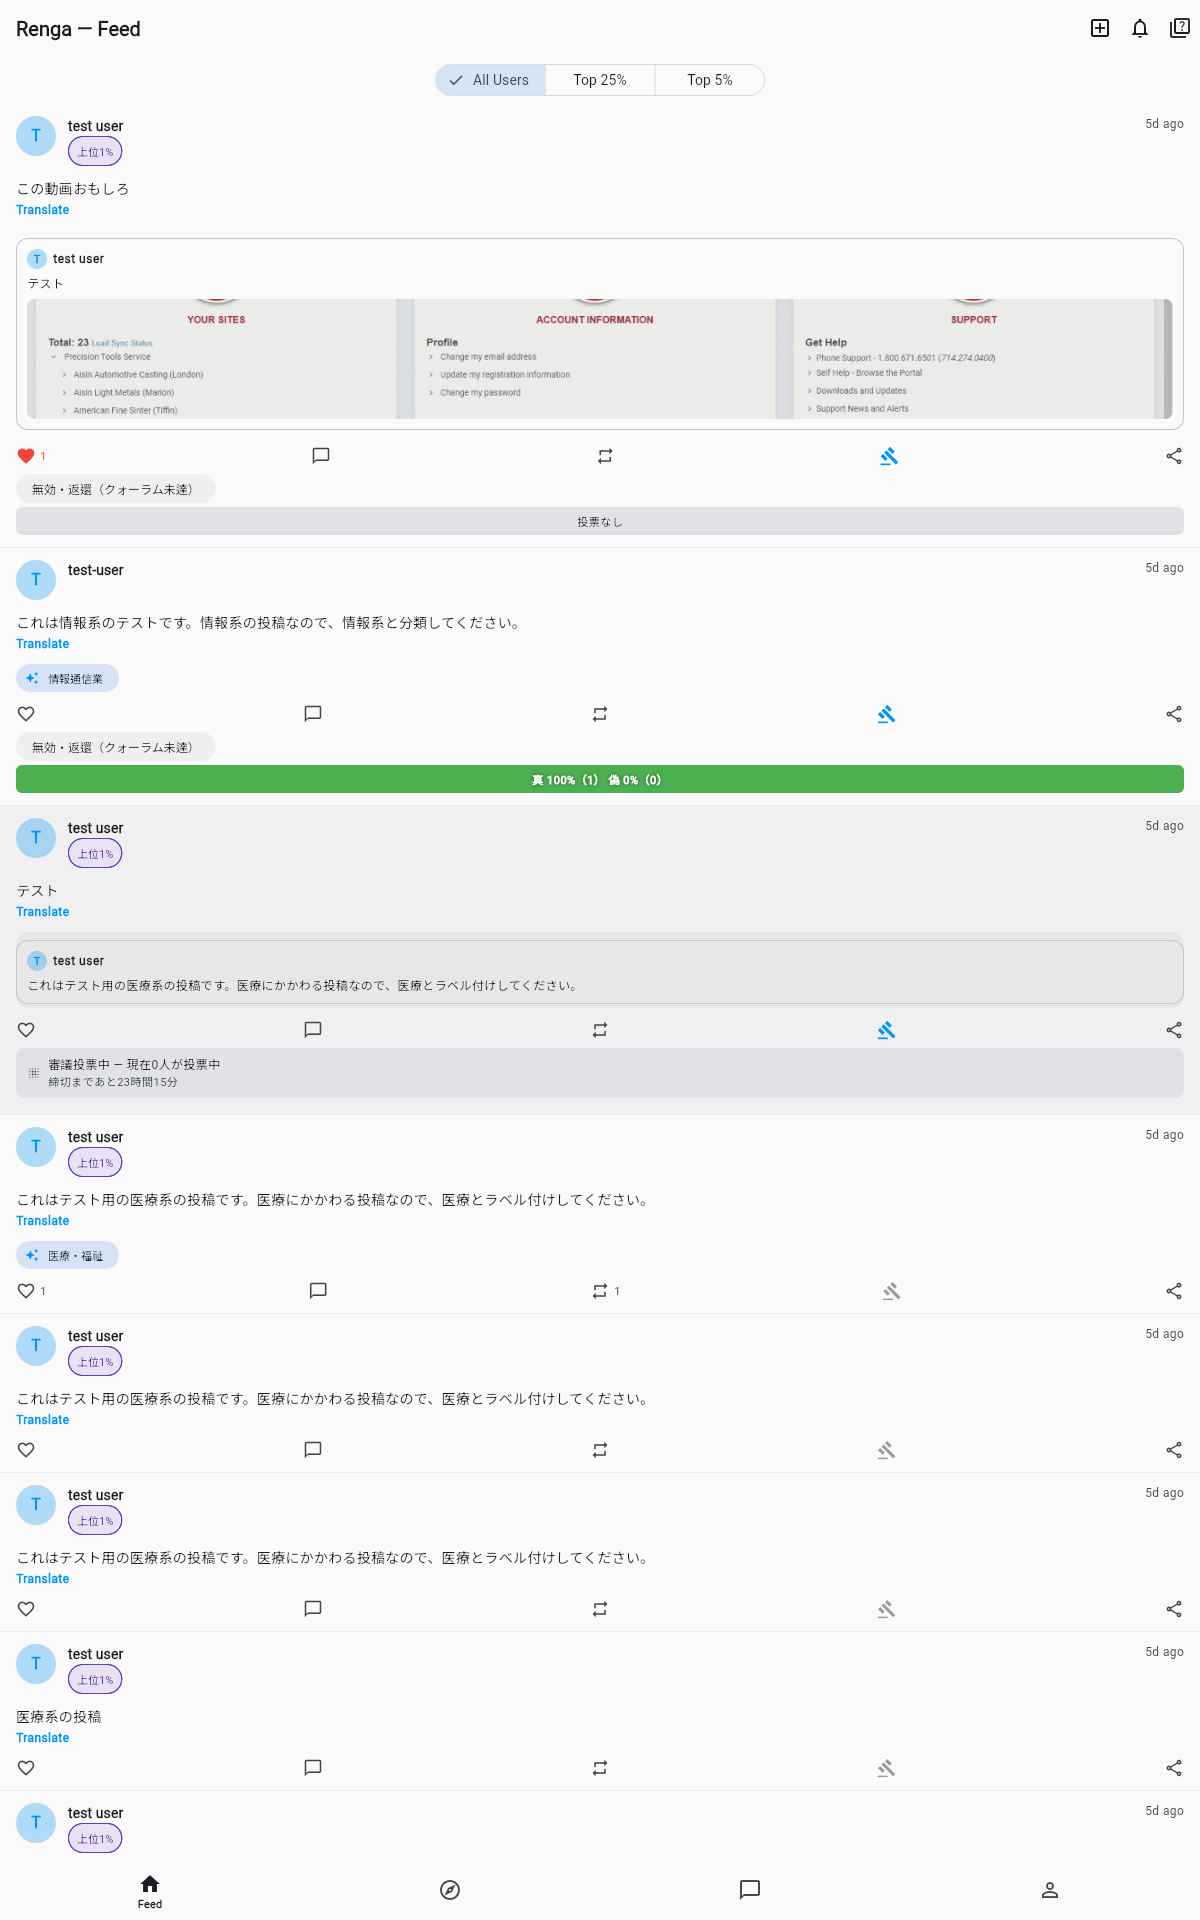
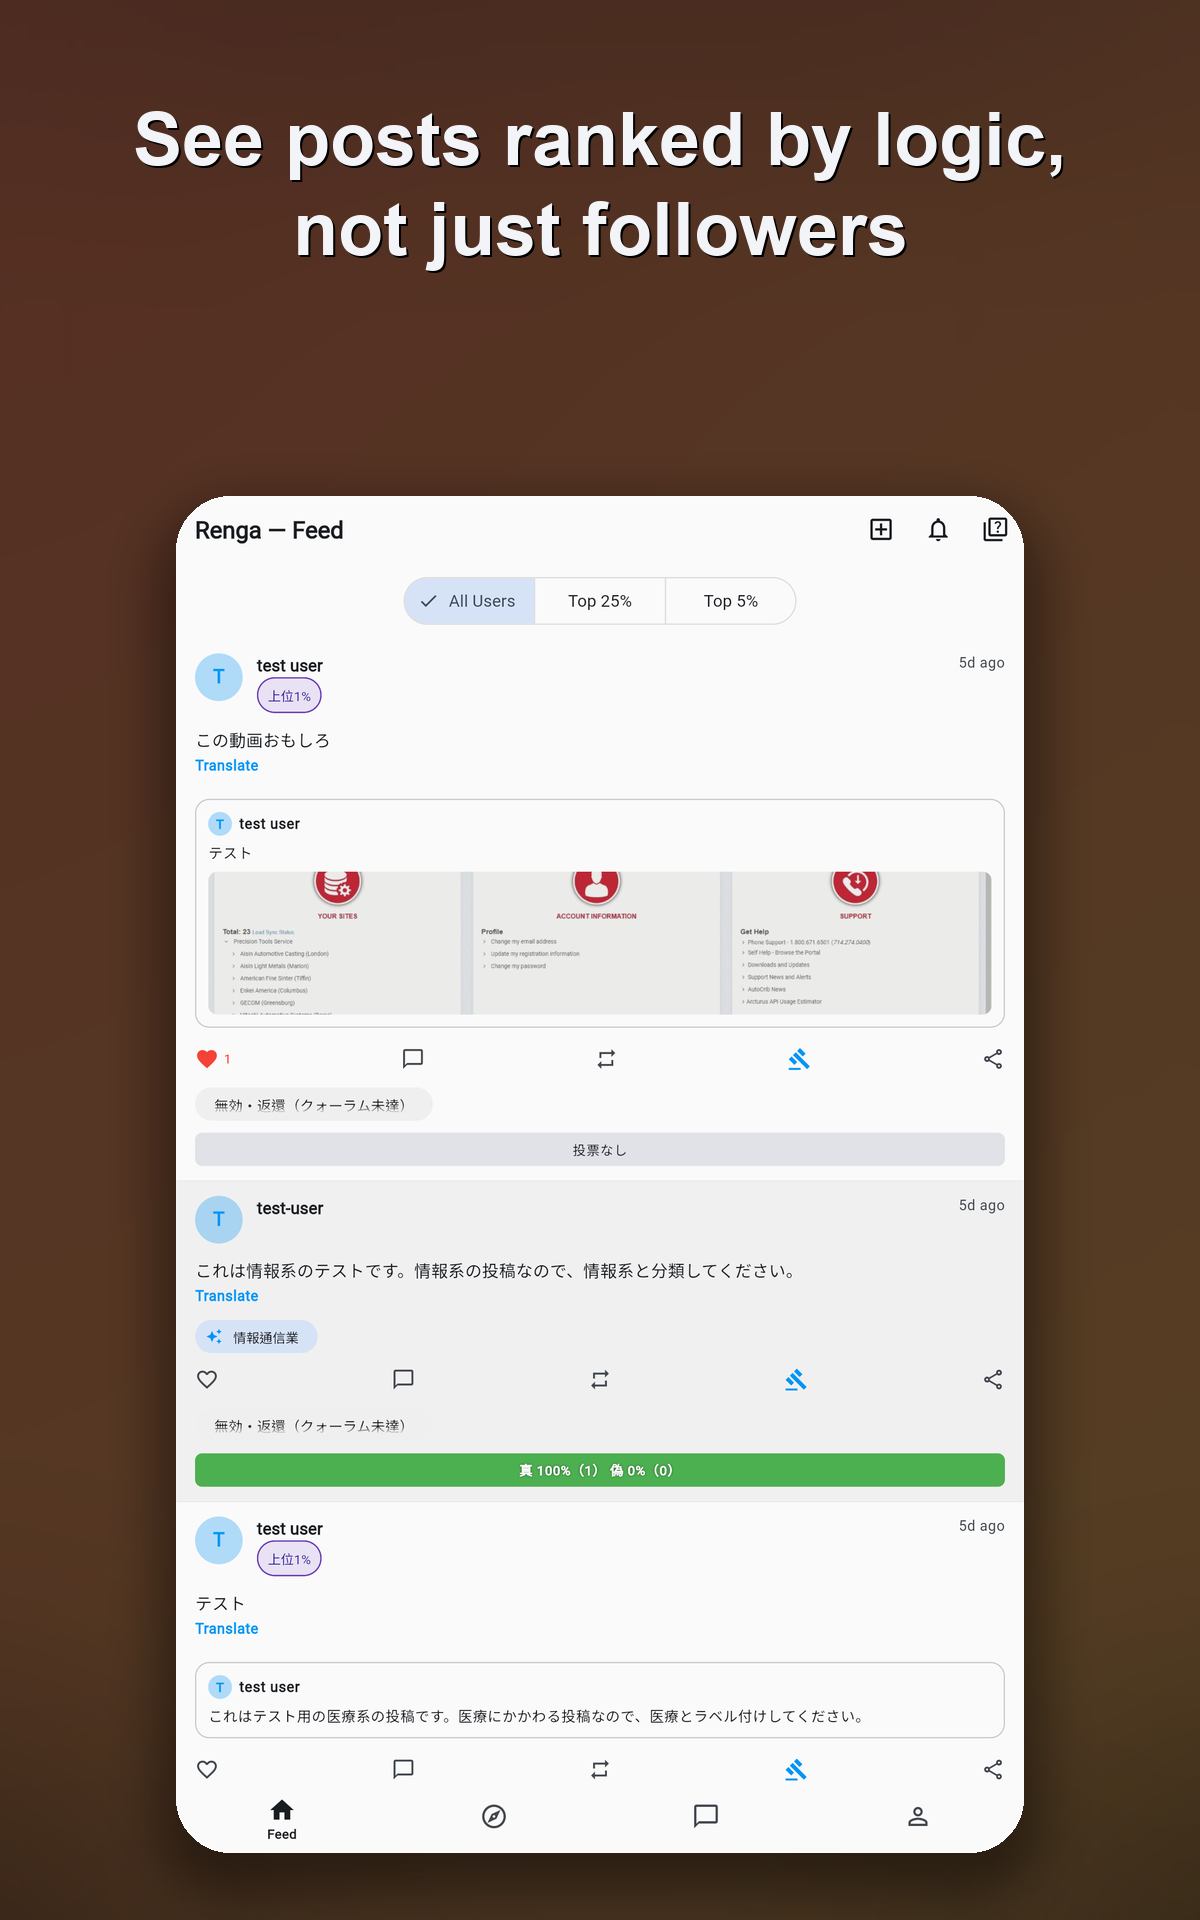
feat: Play Storeスクリーンショットにデバイスエミュレーション撮影・キャプション・背景を追加
Chrome DevToolsのデバイスツールバー相当のPlaywrightデバイスエミュレーション
（Pixel 7 / Galaxy Tab S4 / Galaxy Tab S9）で実機に近い解像度・UAで再撮影し、
各カットにブランドグラデーション背景・マーケティングキャプション・角丸デバイス
フレームを合成する2段階パイプライン（capture_screenshots.js →
compose_screenshots.py）を追加。ストアでよく見る「機能説明付きスクリーンショット」
の体裁に揃えた。

diff --git a/assets/store/listing/capture_screenshots.js b/assets/store/listing/capture_screenshots.js
@@ -1,0 +1,81 @@
+// Captures real in-app screenshots for the Play Store listing using Playwright's
+// device emulation (the programmatic equivalent of Chrome DevTools' "device toolbar"),
+// against a `flutter build web --release` build served locally.
+//
+// One-off tooling, not part of the app's runtime dependencies. Requires:
+//   npm install --no-save playwright
+//   npx playwright install chromium
+//
+// Usage:
+//   flutter build web --release -t lib/main.dart
+//   (cd build/web && python -m http.server 8766) &
+//   TEST_EMAIL=you@example.com TEST_PASSWORD=... node assets/store/listing/capture_screenshots.js
+//
+// Output raw device captures under assets/store/listing/raw/<size>/*.png. Run
+// compose_screenshots.py afterwards to turn them into the final listing images
+// (background + caption + rounded device frame) under assets/store/screenshots_en/.
+const { chromium, devices } = require('playwright');
+const fs = require('fs');
+const path = require('path');
+
+const BASE_URL = process.env.CAPTURE_BASE_URL || 'http://localhost:8766';
+const EMAIL = process.env.TEST_EMAIL;
+const PASSWORD = process.env.TEST_PASSWORD;
+const OUT_ROOT = path.join(__dirname, 'raw');
+
+if (!EMAIL || !PASSWORD) {
+  console.error('Set TEST_EMAIL and TEST_PASSWORD env vars to a logged-in-capable test account.');
+  process.exit(1);
+}
+
+// Login field coordinates (CSS px) were located by hand per device profile, since the
+// Flutter web canvas exposes no DOM to query. Re-probe with a throwaway screenshot if the
+// login screen layout changes.
+const PROFILES = {
+  phone: { descriptor: devices['Pixel 7'], cx: 206, yEmail: 300, yPass: 358, yBtn: 436 },
+  tablet_7in: { descriptor: devices['Galaxy Tab S4'], cx: 356, yEmail: 430, yPass: 514, yBtn: 606 },
+  tablet_10in: { descriptor: devices['Galaxy Tab S9'], cx: 320, yEmail: 394, yPass: 458, yBtn: 530 },
+};
+
+const ROUTES = {
+  '01_feed': '/#/',
+  '02_discover_truth_vote': '/#/discover',
+  '03_profile_scorecard': '/#/profile',
+  '04_daily_quiz': '/#/daily-quiz',
+};
+
+async function loginAndCapture(browser, sizeName, profile) {
+  const outDir = path.join(OUT_ROOT, sizeName);
+  fs.mkdirSync(outDir, { recursive: true });
+  const context = await browser.newContext({ ...profile.descriptor, locale: 'en-US' });
+  const page = await context.newPage();
+  await page.goto(BASE_URL, { waitUntil: 'load', timeout: 60000 });
+  await page.waitForTimeout(10000); // first Flutter web paint is slow in debug/canvas mode
+
+  await page.mouse.click(profile.cx, profile.yEmail);
+  await page.waitForTimeout(400);
+  await page.keyboard.type(EMAIL);
+  await page.mouse.click(profile.cx, profile.yPass);
+  await page.waitForTimeout(400);
+  await page.keyboard.type(PASSWORD);
+  await page.mouse.click(profile.cx, profile.yBtn);
+  await page.waitForTimeout(6000);
+
+  for (const [fname, route] of Object.entries(ROUTES)) {
+    await page.goto(`${BASE_URL}${route}`, { waitUntil: 'load' });
+    await page.waitForTimeout(3000);
+    await page.screenshot({ path: path.join(outDir, `${fname}.png`) });
+  }
+
+  await context.close();
+}
+
+(async () => {
+  const browser = await chromium.launch();
+  for (const [name, profile] of Object.entries(PROFILES)) {
+    console.log('capturing', name);
+    await loginAndCapture(browser, name, profile);
+  }
+  await browser.close();
+  console.log('DONE');
+})();

diff --git a/assets/store/listing/compose_screenshots.py b/assets/store/listing/compose_screenshots.py
@@ -1,0 +1,197 @@
+"""Composite raw device captures (from capture_screenshots.js) into final Play Store
+listing screenshots: brand-gradient background + short marketing caption + rounded
+device frame with soft shadow.
+
+Input:  assets/store/listing/raw/<size>/<shot>.png   (git-ignored, one-off local output)
+Output: assets/store/screenshots_en/<size>/<shot>.png
+
+Usage: python compose_screenshots.py (requires Pillow, same as generate_screenshots.py)
+"""
+
+import os
+from PIL import Image, ImageDraw, ImageFont, ImageFilter
+
+ROOT = os.path.dirname(os.path.abspath(__file__))
+RAW = os.path.join(ROOT, "raw")
+OUT = os.path.join(ROOT, "..", "screenshots_en")
+
+# Brand palette (design/system.md palette, docs/index.html hero gradient).
+BG = (11, 13, 20)  # --bg
+INFLUENCE_START = (255, 122, 69)  # --influence-start
+INFLUENCE_END = (255, 182, 72)  # --influence-end
+INTELLECT_START = (79, 107, 255)  # --intellect-start
+INTELLECT_END = (126, 224, 255)  # --intellect-end
+TEXT_WHITE = (243, 244, 248)
+
+SIZES = {
+    "phone": (1080, 1920),
+    "tablet_7in": (1200, 1920),
+    "tablet_10in": (1600, 2560),
+}
+
+CAPTIONS = {
+    "01_feed": "See posts ranked by logic, not just followers",
+    "02_discover_truth_vote": "Vote on what's actually true",
+    "03_profile_scorecard": "Track your Influence and Intellect side by side",
+    "04_daily_quiz": "Sharpen your mind with a daily logic quiz",
+}
+
+# Alternate accent per screenshot for visual variety while staying on-brand.
+ACCENTS = {
+    "01_feed": (INFLUENCE_START, INFLUENCE_END),
+    "02_discover_truth_vote": (INTELLECT_START, INTELLECT_END),
+    "03_profile_scorecard": (INFLUENCE_START, INFLUENCE_END),
+    "04_daily_quiz": (INTELLECT_START, INTELLECT_END),
+}
+
+
+def font(size, bold=True):
+    names = (
+        ["arialbd.ttf", "Arial Bold.ttf", "DejaVuSans-Bold.ttf"]
+        if bold
+        else ["arial.ttf", "Arial.ttf", "DejaVuSans.ttf"]
+    )
+    for n in names:
+        try:
+            return ImageFont.truetype(n, size)
+        except OSError:
+            continue
+    return ImageFont.load_default()
+
+
+def make_background(w, h, accent_start, accent_end):
+    """Dark base with a soft diagonal accent glow (top-left -> bottom-right)."""
+    base = Image.new("RGB", (w, h), BG)
+
+    glow = Image.new("RGB", (w, h), BG)
+    gd = ImageDraw.Draw(glow)
+    steps = 120
+    for i in range(steps):
+        t = i / (steps - 1)
+        r = int(accent_start[0] * (1 - t) + accent_end[0] * t)
+        g = int(accent_start[1] * (1 - t) + accent_end[1] * t)
+        b = int(accent_start[2] * (1 - t) + accent_end[2] * t)
+        x0 = int(-h + t * (w + h))
+        gd.line([(x0, h), (x0 + h, 0)], fill=(r, g, b), width=int(h / steps) + 2)
+    glow = glow.filter(ImageFilter.GaussianBlur(radius=w * 0.12))
+
+    base = Image.blend(base, glow, alpha=0.32)
+
+    # Subtle vignette: darken edges slightly.
+    vignette = Image.new("L", (w, h), 0)
+    vd = ImageDraw.Draw(vignette)
+    vd.ellipse([-w * 0.3, -h * 0.2, w * 1.3, h * 1.1], fill=255)
+    vignette = vignette.filter(ImageFilter.GaussianBlur(radius=w * 0.15))
+    dark = Image.new("RGB", (w, h), (0, 0, 0))
+    base = Image.composite(base, dark, vignette)
+
+    return base
+
+
+def rounded_mask(size, radius):
+    mask = Image.new("L", size, 0)
+    d = ImageDraw.Draw(mask)
+    d.rounded_rectangle([(0, 0), (size[0] - 1, size[1] - 1)], radius=radius, fill=255)
+    return mask
+
+
+def paste_with_shadow(canvas, shot, box_xy, radius, shadow_alpha=110):
+    """Paste `shot` onto canvas at box_xy with rounded corners + a soft drop shadow."""
+    x, y = box_xy
+    w, h = shot.size
+
+    shadow = Image.new("RGBA", canvas.size, (0, 0, 0, 0))
+    sd = ImageDraw.Draw(shadow)
+    pad = int(w * 0.02)
+    sd.rounded_rectangle(
+        [x - pad, y - pad + int(h * 0.02), x + w + pad, y + h + pad + int(h * 0.02)],
+        radius=radius + pad,
+        fill=(0, 0, 0, shadow_alpha),
+    )
+    shadow = shadow.filter(ImageFilter.GaussianBlur(radius=w * 0.03))
+    canvas.alpha_composite(shadow)
+
+    mask = rounded_mask((w, h), radius)
+    canvas.paste(shot.convert("RGBA"), (x, y), mask)
+
+    border = Image.new("RGBA", canvas.size, (0, 0, 0, 0))
+    bd = ImageDraw.Draw(border)
+    bd.rounded_rectangle(
+        [x, y, x + w - 1, y + h - 1], radius=radius, outline=(255, 255, 255, 40), width=2
+    )
+    canvas.alpha_composite(border)
+
+
+def wrap_text(draw, text, fnt, max_width):
+    words = text.split()
+    lines = []
+    cur = ""
+    for word in words:
+        trial = (cur + " " + word).strip()
+        if draw.textlength(trial, font=fnt) <= max_width:
+            cur = trial
+        else:
+            if cur:
+                lines.append(cur)
+            cur = word
+    if cur:
+        lines.append(cur)
+    return lines
+
+
+def compose_one(canvas_w, canvas_h, shot_key, raw_path, out_path):
+    accent_start, accent_end = ACCENTS[shot_key]
+    canvas = make_background(canvas_w, canvas_h, accent_start, accent_end).convert("RGBA")
+    draw = ImageDraw.Draw(canvas)
+
+    caption = CAPTIONS[shot_key]
+    cap_font_size = int(canvas_w * 0.062)
+    cap_font = font(cap_font_size, bold=True)
+    side_margin = int(canvas_w * 0.09)
+    max_text_width = canvas_w - side_margin * 2
+    lines = wrap_text(draw, caption, cap_font, max_text_width)
+    line_height = int(cap_font_size * 1.22)
+    text_block_h = line_height * len(lines)
+    top_area_h = int(canvas_h * 0.145)
+    text_top = max(int(canvas_h * 0.045), top_area_h - text_block_h)
+    for i, line in enumerate(lines):
+        tw = draw.textlength(line, font=cap_font)
+        tx = (canvas_w - tw) / 2
+        ty = text_top + i * line_height
+        draw.text((tx + 2, ty + 2), line, font=cap_font, fill=(0, 0, 0, 120))
+        draw.text((tx, ty), line, font=cap_font, fill=TEXT_WHITE)
+
+    shot = Image.open(raw_path).convert("RGB")
+    shot_area_top = int(canvas_h * 0.145) + text_block_h + int(canvas_h * 0.02)
+    bottom_margin = int(canvas_h * 0.035)
+    side_pad = int(canvas_w * 0.06)
+    avail_w = canvas_w - side_pad * 2
+    avail_h = canvas_h - shot_area_top - bottom_margin
+
+    scale = min(avail_w / shot.width, avail_h / shot.height)
+    new_w = int(shot.width * scale)
+    new_h = int(shot.height * scale)
+    shot_resized = shot.resize((new_w, new_h), Image.LANCZOS)
+
+    x = (canvas_w - new_w) // 2
+    y = shot_area_top + (avail_h - new_h) // 2
+    radius = int(canvas_w * 0.045)
+
+    paste_with_shadow(canvas, shot_resized, (x, y), radius)
+
+    canvas.convert("RGB").save(out_path, "PNG")
+
+
+def main():
+    for size_name, (w, h) in SIZES.items():
+        out_dir = os.path.join(OUT, size_name)
+        os.makedirs(out_dir, exist_ok=True)
+        for shot_key in CAPTIONS:
+            raw_path = os.path.join(RAW, size_name, f"{shot_key}.png")
+            out_path = os.path.join(out_dir, f"{shot_key}.png")
+            compose_one(w, h, shot_key, raw_path, out_path)
+            print("wrote", out_path)
+
+
+if __name__ == "__main__":
+    main()

diff --git a/design/product.md b/design/product.md
@@ -717,11 +717,25 @@ Renga（連歌）のブランドコンセプトに沿い、「連なる句／連
 
 ### スクリーンショット
 
-**Play Console提出用の英語版スクリーンショットは実機キャプチャ済み**（Google Playの「スクリーンショットがプレースホルダー/ストック画像で実際のアプリ体験を反映していない」という審査指摘を受け、`flutter build web --release`したアプリをPlaywrightで操作し、本番Supabaseプロジェクトのテストアカウントでログインした実画面をキャプチャして差し替えた。Feed/Discoverの真偽投票メーター/Profileスコアカード/デイリークイズの4カットで統一）:
+**Play Console提出用の英語版スクリーンショットは実機キャプチャ＋マーケティング合成済み**（Google Playの「スクリーンショットがプレースホルダー/ストック画像で実際のアプリ体験を反映していない」という審査指摘を受けて対応。Feed/Discoverの真偽投票メーター/Profileスコアカード/デイリークイズの4カットで統一）:
 
 - `assets/store/screenshots_en/phone/` — 1080×1920（9:16、電話用）
 - `assets/store/screenshots_en/tablet_7in/` — 1200×1920（9:16、7インチタブレット用）
 - `assets/store/screenshots_en/tablet_10in/` — 1600×2560（9:16、10インチタブレット用）
+
+生成パイプライン（`assets/store/listing/`配下、詳細は同ディレクトリのREADME参照）:
+
+1. `capture_screenshots.js` — `flutter build web --release`したアプリを、PlaywrightのデバイスエミュレーションプロファイルPixel 7 / Galaxy Tab S4 / Galaxy Tab S9（Chrome DevToolsの「デバイスツールバー」に相当するプログラム的操作）で操作し、本番Supabaseプロジェクトのテストアカウントでログインした実画面を素の状態でキャプチャする（`raw/`配下、Git管理外）。
+2. `compose_screenshots.py` — 素のキャプチャを、ブランドカラー（system.md記載のパレット、`docs/index.html`のヒーロー配色と同一）のグラデーション背景・各画面を要約した英語の短いマーケティングキャプション・角丸＋ドロップシャドウ付きのデバイスフレームと合成し、最終的な掲載用画像として`assets/store/screenshots_en/`へ書き出す。
+
+各カットのキャプション文言:
+
+| カット | キャプション |
+|---|---|
+| 01_feed | See posts ranked by logic, not just followers |
+| 02_discover_truth_vote | Vote on what's actually true |
+| 03_profile_scorecard | Track your Influence and Intellect side by side |
+| 04_daily_quiz | Sharpen your mind with a daily logic quiz |
 
 **既知の限界**: キャプチャに使用したテストアカウントの投稿内容がテスト用の日本語文言のままであること、Profile画面のハンドルがユーザーIDのUUIDそのまま表示される（Edit Profileにユーザー名変更フィールドが無いため）ことなど、内容面では改善余地がある。実運用ユーザーの投稿が増え次第、より訴求力のある実データのスクリーンショットに再差し替えを検討する。
 

diff --git a/assets/store/listing/README.md b/assets/store/listing/README.md
@@ -7,12 +7,22 @@
 - `../screenshots_en/tablet_7in/*.png` — 1200x1920 (9:16)
 - `../screenshots_en/tablet_10in/*.png` — 1600x2560 (9:16)
 
-Screenshots are **real in-app captures** (Feed, Discover Truth Vote, Profile
-scorecard, Daily Quiz), taken from `flutter build web --release` driven by
-Playwright against a logged-in test account on the production Supabase
-project. See design/product.md §7 for known content-quality caveats (test
-post copy, UUID-based profile handle) to revisit once real user content is
-available.
+Screenshots are **real in-app captures**, composited onto a branded
+background with a short marketing caption:
+
+1. `capture_screenshots.js` — drives `flutter build web --release` via
+   Playwright's device emulation (Pixel 7 / Galaxy Tab S4 / Galaxy Tab S9 —
+   the programmatic equivalent of Chrome DevTools' device toolbar) against a
+   logged-in test account on the production Supabase project. Raw captures
+   land in `raw/<size>/*.png` (git-ignored).
+2. `compose_screenshots.py` — composites each raw capture onto a
+   brand-gradient background (design/system.md palette) with a bold
+   marketing caption and a rounded, drop-shadowed device frame, writing the
+   final images to `../screenshots_en/<size>/`.
+
+See design/product.md §7 for known content-quality caveats in the raw
+captures (test post copy, UUID-based profile handle) to revisit once real
+user content is available.
 
 `generate_screenshots.py` still exists to regenerate the older
 PLACEHOLDER MOCKUP wireframes used only by the landing page
